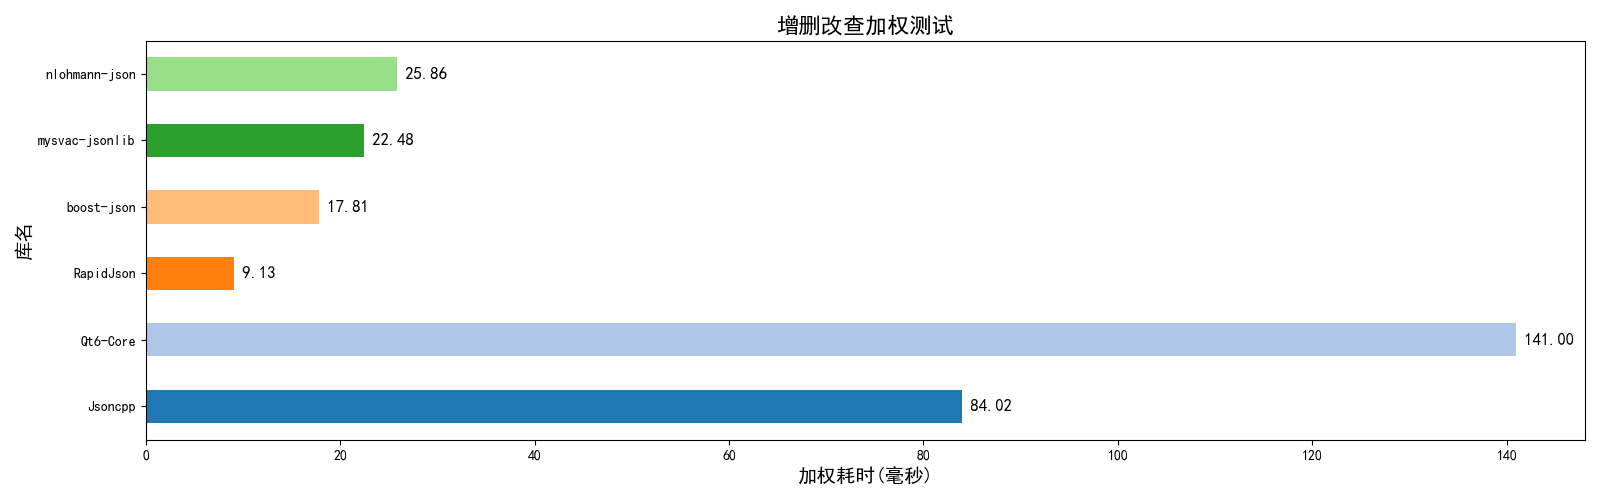
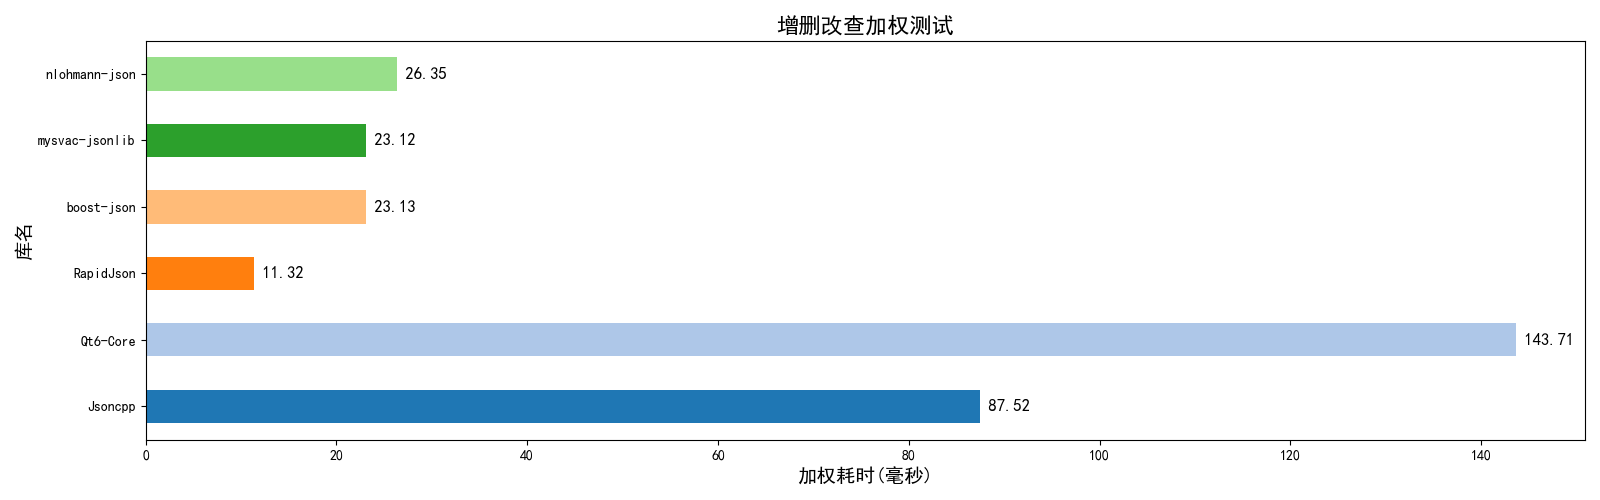
测试结果平均化

diff --git a/result/get_ave_chart_zh.py b/result/get_ave_chart_zh.py
@@ -1,0 +1,116 @@
+import pandas as pd
+import matplotlib.pyplot as plt
+import matplotlib
+import numpy as np
+import os
+
+
+def get_chart(title, xlabel, df):
+
+    filtered_df = df[df[title] > -0.0001]
+
+    if filtered_df.empty:
+        return
+    
+    # 创建一个图形和轴
+    fig, ax = plt.subplots(figsize=(16, 5))
+
+    colors = plt.cm.tab20(np.arange(len(filtered_df)))
+
+    # 绘制水平条形图
+    bars = filtered_df.set_index("库名")[title].plot(kind="barh", ax=ax, color=colors)
+
+    for i, (value, name) in enumerate(zip(filtered_df[title], filtered_df["库名"])):
+        if isinstance(value, float):
+            ax.text(value, i, f" {value:.2f}", va="center", ha="left", fontsize=12)
+        else:
+            ax.text(value, i, f" {value}", va="center", ha="left", fontsize=12)
+
+    # 设置标题和标签
+    ax.set_title(title, fontsize=16)
+    ax.set_xlabel(xlabel, fontsize=14)
+    ax.set_ylabel("库名", fontsize=14)
+
+    # 保存图表为图片
+    plt.tight_layout()
+    os.makedirs("images_zh", exist_ok = True)
+    plt.savefig(f"./images_zh/{title}.png")
+    plt.close()
+    # plt.show()
+
+if __name__ == "__main__":
+
+    matplotlib.rcParams['font.family'] = 'SimHei'  # 指定字体为黑体
+    # 读取CSV文件
+    # 读取所有 CSV 文件
+    dfs = [pd.read_csv(f"result-{i}.csv") for i in range(0, 10)]
+
+    # 合并所有 DataFrame
+    combined_df = pd.concat(dfs)
+
+    # 按 'lib_name' 分组，计算均值（保留非数值列）
+    df = combined_df.groupby('lib_name', as_index=False).mean()
+
+    df['库名'] = df['lib_name']
+    df = df.drop(columns=['lib_name'])
+
+    df['正常解析测试'] = (df['validity'] > 0.5).astype(int)
+    df = df.drop(columns=['validity'])
+    df['数值类型支持'] = (df['value_type'] > 0.5).astype(int)
+    df = df.drop(columns=['value_type'])
+
+    df['内存占用'] = df['memory'].astype(int)
+    df = df.drop(columns=['memory'])
+
+    df['深度数据解析测试'] = (df['unserialize_3'] > -0.5).astype(int)
+
+
+
+    df['反序列化测试'] = (df['unserialize_1'] + 0.2 * df['unserialize_2']) / 500.
+    df = df.drop(columns=['unserialize_1' , 'unserialize_2', 'unserialize_3'])
+
+    df['序列化测试'] = (df['serialize_1'] + 0.2 * df['serialize_2']) / 500.
+    df = df.drop(columns=['serialize_1' , 'serialize_2', 'serialize_3'])
+
+    df['美化序列化测试'] = (df['prettify_1'] + 0.2 * df['prettify_2']) / 500.
+    df = df.drop(columns=['prettify_1' , 'prettify_2', 'prettify_3'])
+
+    df['获取子元素测试'] = df['get_child'] / 250.
+
+    df['增加子元素测试'] = df['add_child'] / 250.
+
+    df['删除子元素测试'] = df['delete_child'] / 250.
+
+
+    df['增删改查加权测试'] = (df['get_child'] * 0.6 + df['add_child']*0.25 + df['delete_child']*0.15 )  / 250.
+    df = df.drop(columns=['get_child' , 'add_child', 'delete_child'])
+
+    df['数值格式支持测试'] = df['double_validity'].astype(int)
+    df = df.drop(columns=['double_validity'])
+
+    df['浮点数精度测试'] = df['double_accuracy'].astype(int)
+    df = df.drop(columns=['double_accuracy'])
+
+    df['字符串转义测试'] = df['string_validity'].astype(int)
+    df = df.drop(columns=['string_validity'])
+
+    df['语法严格性测试'] = df['error_validity'].astype(int)
+    df = df.drop(columns=['error_validity'])
+
+
+    get_chart("正常解析测试", "能否正常解析(1/0)" , df)
+    get_chart("数值类型支持", "根支持为数值类型(1/0)", df)
+    get_chart("内存占用", "反序列化对象大小(KB)", df)
+    get_chart("深度数据解析测试", "支持非常深层次的数据解析(1/0)", df)
+    get_chart("反序列化测试", "加权耗时(毫秒)" ,df)
+    get_chart("序列化测试", "加权耗时(毫秒)", df)
+    get_chart("美化序列化测试", "加权耗时(毫秒)" ,df)
+    get_chart("获取子元素测试", "累计耗时(毫秒)",df)
+    get_chart("增加子元素测试", "累计耗时(毫秒)",df)
+    get_chart("删除子元素测试", "累计耗时(毫秒)",df)
+    get_chart("增删改查加权测试", "加权耗时(毫秒)",df)
+    get_chart("数值格式支持测试", "分数(100满)",df)
+    get_chart("浮点数精度测试", "分数(100满)",df)
+    get_chart("字符串转义测试", "分数(100满)",df)
+    get_chart("语法严格性测试", "分数(100满)",df)
+
